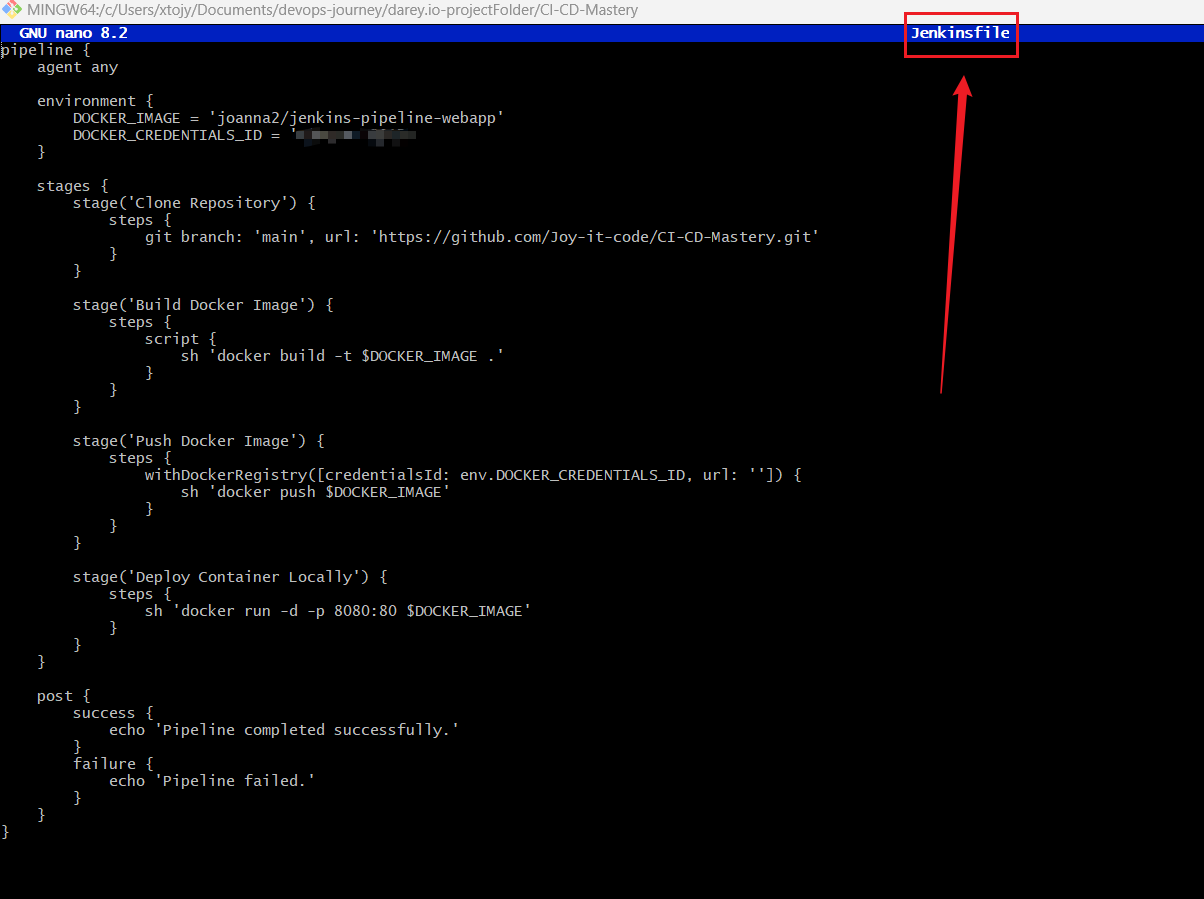
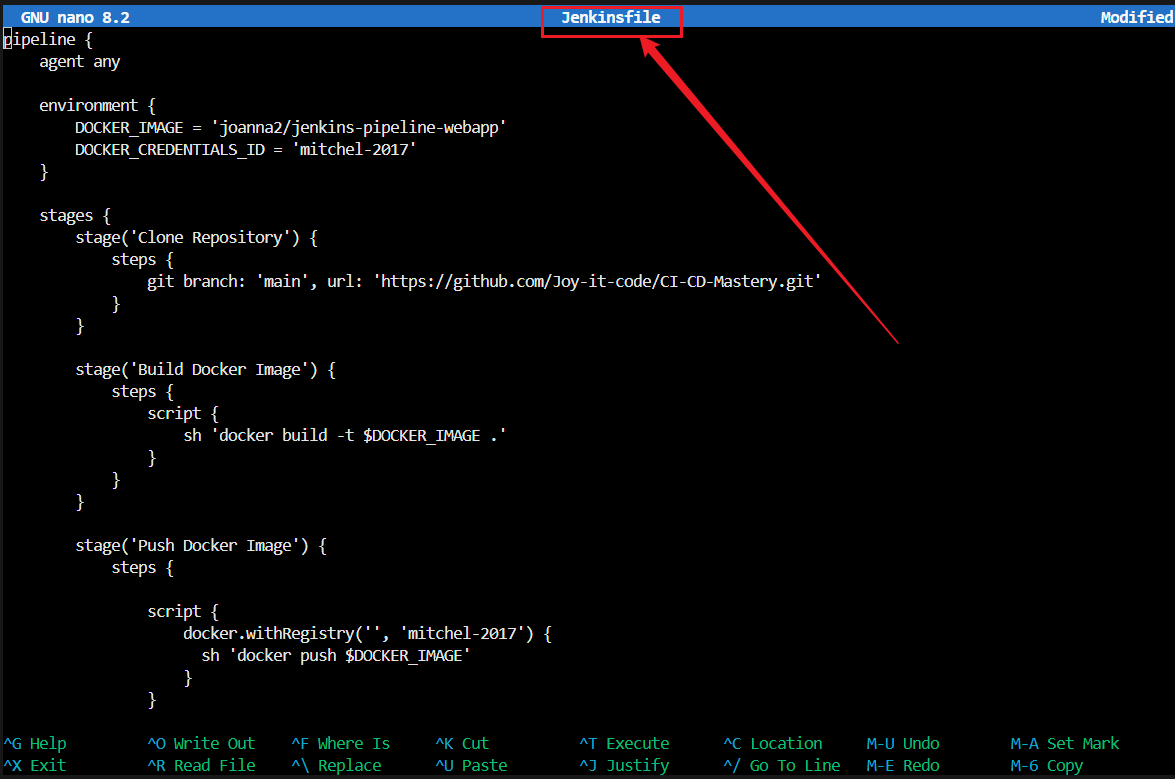
updated file

diff --git a/README.md b/README.md
@@ -103,20 +103,20 @@ git clone https://github.com/Joy-it-code/CI-CD-Mastery.git
 
 **Instructions:**
   
-1. Login to Jenkins → New Item → Freestyle Project.
-2. Name it **Build and Test Job**.
++ Login to Jenkins → New Item → Freestyle Project.
++ Name it **Build and Test Job**.
 ![](./img/6a.build.test.png)
 
-3. Select **Git** under **Source Code Management** and provide the repository URL.
++ Select **Git** under **Source Code Management** and provide the repository URL.
 ```
 https://github.com/Joy-it-code/CI-CD-Mastery.git
 ```
 ![](./img/6b.source.code.png)
 
-4. Under trigger, enable trigger for GITScm polling.
++ Under trigger, enable trigger for GITScm polling.
 ![](./img/6c.Triggers.build.png)
 
-5. Under Build Steps, select Execute Shell and add commands:
++ Under Build Steps, select Execute Shell and add commands:
 
 ```
 echo "Building Application..."
@@ -128,7 +128,7 @@ echo "Building Application..."
 ![](./img/6d.Build.steps.png)
 
 
-## 3.2 Save and Build:
+## 3.1: Save and Build:
 Click Save and Build Now.
 ![](./img/6e.build.test.status.png)
 
@@ -138,11 +138,9 @@ Click Save and Build Now.
 
 ## Step 4. Jenkins Pipeline for Web Application
 
-+ Objective: Develop a Jenkins Pipeline for running a web application.
++ Objective: Develop a Jenkins Pipeline, index.html and Dockerfile for running a web application.
 
-+ Instructions:
-
-## Step 4: Jenkins Pipeline for Web Application, Docker Image Creation & Registry Push.
++ Instructions: Develop Jenkins Pipeline for Web Application, Docker Image Creation & Registry Push.
 
 ### Step 4.1: Create a Simple Web Application (index.html)
 
@@ -166,17 +164,81 @@ Click Save and Build Now.
 
 ### 4.2: Create a Dockerfile
 
-+ In the same directory as your index.html file, create a file named Dockerfile with the following content:
++ In the same directory as your index.html file, create a file named Dockerfile and jenkinsfile with the following content:
 
 ```
-FROM nginx:alpine
+# Use the official NGINX base image
+FROM nginx:latest
+
+# Set the working directory in the container
+WORKDIR  /usr/share/nginx/html/
+
+# Copy the local HTML file to the NGINX default public directory
 COPY index.html /usr/share/nginx/html/
+
+# Expose port 80 to allow external access
 EXPOSE 80
 ```
 ![](./img/8b.docker.file.png)
 
+### Step 4.3: Create a Jenkinsfile
 
-### Step 4.3: Push Your Code to GitHub
+```
+pipeline {
+    agent any
+
+    environment {
+        DOCKER_IMAGE = 'joanna2/jenkins-pipeline-webapp'
+        DOCKER_CREDENTIALS_ID = 'mitchel-2017'
+    }
+
+    stages {
+        stage('Clone Repository') {
+            steps {
+                git branch: 'main', url: 'https://github.com/Joy-it-code/CI-CD-Mastery.git'
+            }
+        }
+
+        stage('Build Docker Image') {
+            steps {
+                script {
+                    sh 'docker build -t $DOCKER_IMAGE .'
+                }
+            }
+        }
+
+        stage('Push Docker Image') {
+            steps {
+                
+                script {
+                    docker.withRegistry('', 'mitchel-2017') {
+                      sh 'docker push $DOCKER_IMAGE'
+                    }
+                }
+ 
+            }
+        }
+
+        stage('Deploy Container Locally') {
+            steps {
+                sh 'docker run -d -p 8090:80 $DOCKER_IMAGE'
+            }
+        }
+    }
+
+    post {
+        success {
+            echo 'Pipeline completed successfully.'
+        }
+        failure {
+            echo 'Pipeline failed.'
+        }
+    }
+}
+```
+![](./img/8c.jenkins.file.png)
+
+### Step 4.4: Push Your Code to GitHub
 
 ### Run the following Git commands in your project directory:
 
@@ -186,7 +248,9 @@ git commit -m "Initial commit - Simple web application"
 git push origin main
 ```
 
-Step 4.4: Set Up Jenkins Pipeline to Build Docker Image
+## Step 5: Set Up Jenkins Pipeline to Build Docker Image
+
+### Objective: Automate Docker image creation and push to a container registry like Docker Hub.
 
 + Install Docker on Your EC2 Instance:
 
@@ -211,7 +275,7 @@ sudo usermod -aG docker jenkins
 sudo systemctl restart jenkins
 ```
 
-### Step 4.5: Docker Image Creation and Push to Dockerhub
+### Step 5.2: Docker Image Creation and Push to Dockerhub
 
 + Log into Dockerhub, visit htttps://hub.docker.com/
 
@@ -221,26 +285,105 @@ sudo systemctl restart jenkins
 
 + Repository Name: jenkins-pipeline/webapp.
 
-+ Visibily: Public (free and easy to access)
++ Visibily: Public
 
 + Click Create.
 
 ![](./img/9.docker.repo.png)
 
+### Setup DOCKER_CREDENTIAL_ID
+
++ In your Dockerhub, Go up to your name,
++ Click on account settings
++ Click on security
++ Click new access tokens, and name it 
++ Click create
++ Copy the generated token and save
+
+### Log into Jenkins instance
+
++ click on Manage Jenkins
++ Click Manage Credentials.
++ Under Stores scoped to Jenkins, click (global) or Global
+credentials (unrestricted).
++ Click Add Credentials.
++ In the Add Credentials form, fill in the fields
++ Click OK to save.
+![](./img/10a.add.credential.png)
 
 
-Create a Pipeline Job in Jenkins:
+## Step 5.3: Create a Pipeline Job in Jenkins:
+
+### Objective:
 
 + Go to Jenkins Dashboard → New Item → Pipeline.
 + Name it Web Application Pipeline, then click ok.
 ![](./img/7a.creating.pipeline.png)
 
 + Under Pipeline, select Pipeline script from SCM.
+![](./img/7b.pipeline.script.trigger.png)
+
 + SCM: Git → Provide repository URL.
 + Script Path: Jenkinsfile.
-+ Save and Build.
+![](./img/7c.pipeline.scm.png)
+
++ Save and click Build now to run the pipeline.
+![](./img/10b.successful.build.png)
 
 
-Jenkins file
+## Step 5.4: Access the Web Application
+
+After the pipeline deploys your container:
+
++ Open your browser.
+
++ Visit http://44.201.182.162:8090
+![](./img/10c.browser.tested.png)
+
+## Step 5.5: Push Docker Image to Docker Hub
+
++ Visit dockerhub to see the image
+![](./img/10d.%20dockhub.image.png)
+
++ Docker image on EC2 
+![](./img/10e.dock.instce.screensht.png)
+
+## Commit and Push changes to Github repository.
+
+**Command**
+
+```
+git add .
+git commit -m "updated file"
+git push origin main
+```
+
+### Expected Outcome:
+
++ Successful automation of the Docker image creation, pushing it to Docker Hub, and deploying the container locally. 
+
++ I Accessed my web application through http://44.201.182.162:8090 to confirm deployment.
 
 
+### Key Achievements:
+
++ Automated end-to-end CI/CD pipeline for containerized web applications.
+
++ Seamless Docker image build, push to Docker Hub, and local deployment.
+
++ I Ensured consistent and repeatable application delivery using Jenkins.
+
+
+### Conclusion:
+
+This pipeline streamlines the development lifecycle by integrating Docker and Jenkins, enabling fast, reliable, and automated deployment of containerized applications.
+
+## Author
+
+**Joy** – *Striving DevOps Engineer*
+
+### 🔗 GitHub Repository: [Joy-it-code/CI-CD-Mastery] [https://github.com/Joy-it-code/CI-CD-Mastery]
+
+---
+ 
+ **🌟 Delighted Acquiring 🚀** 
